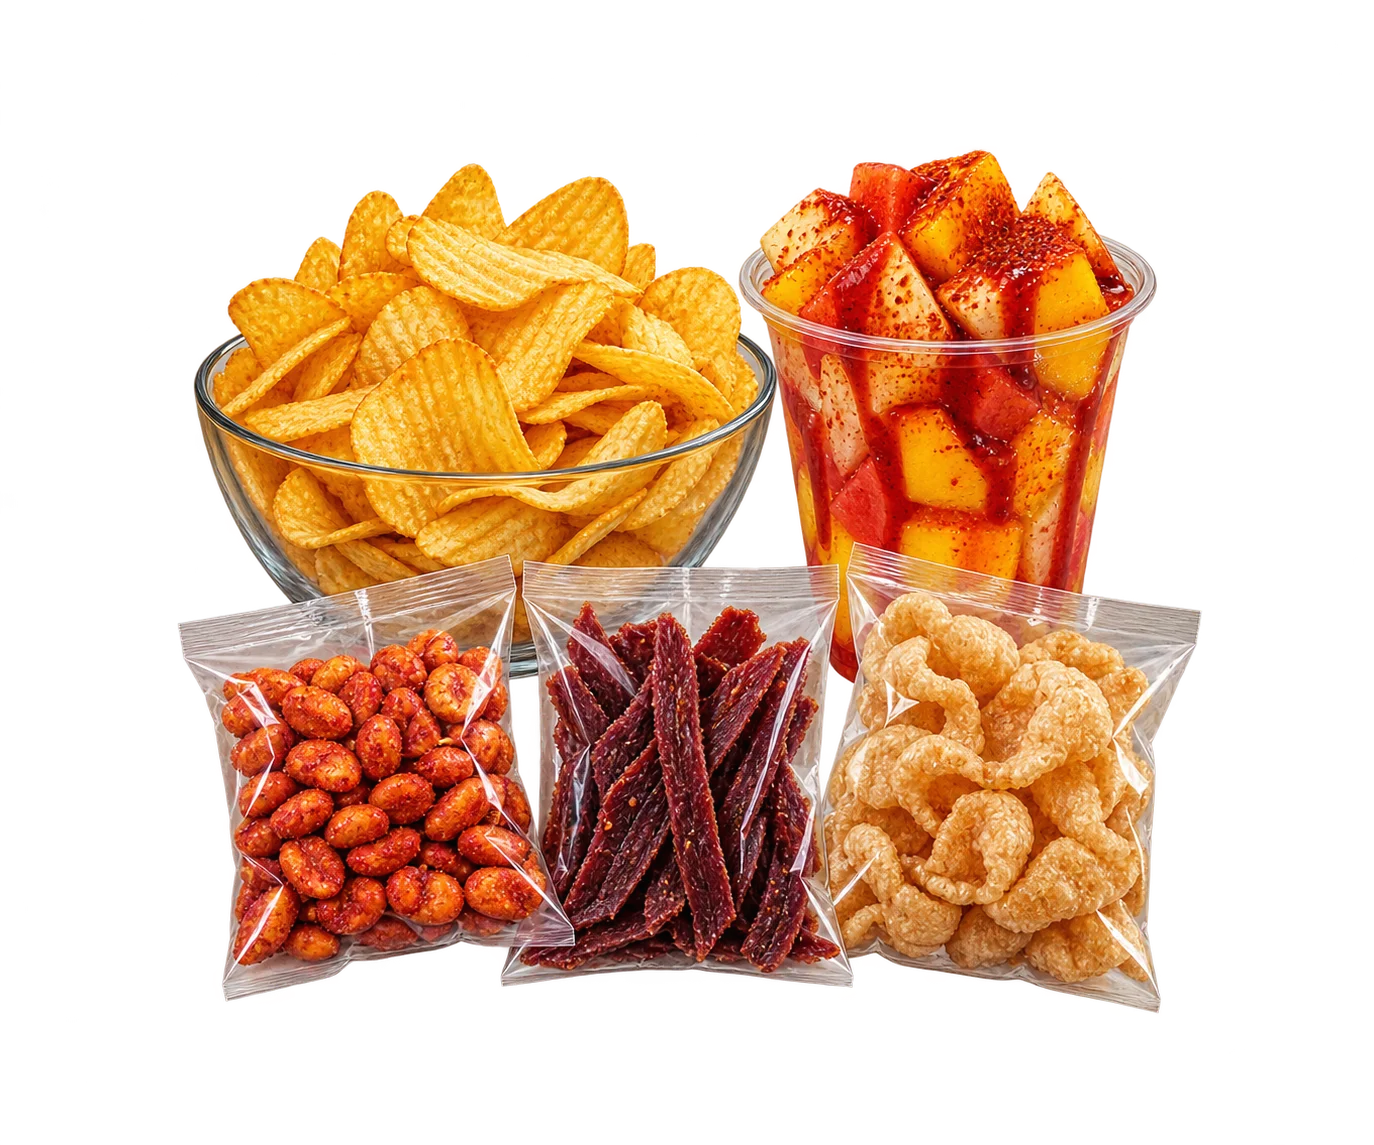
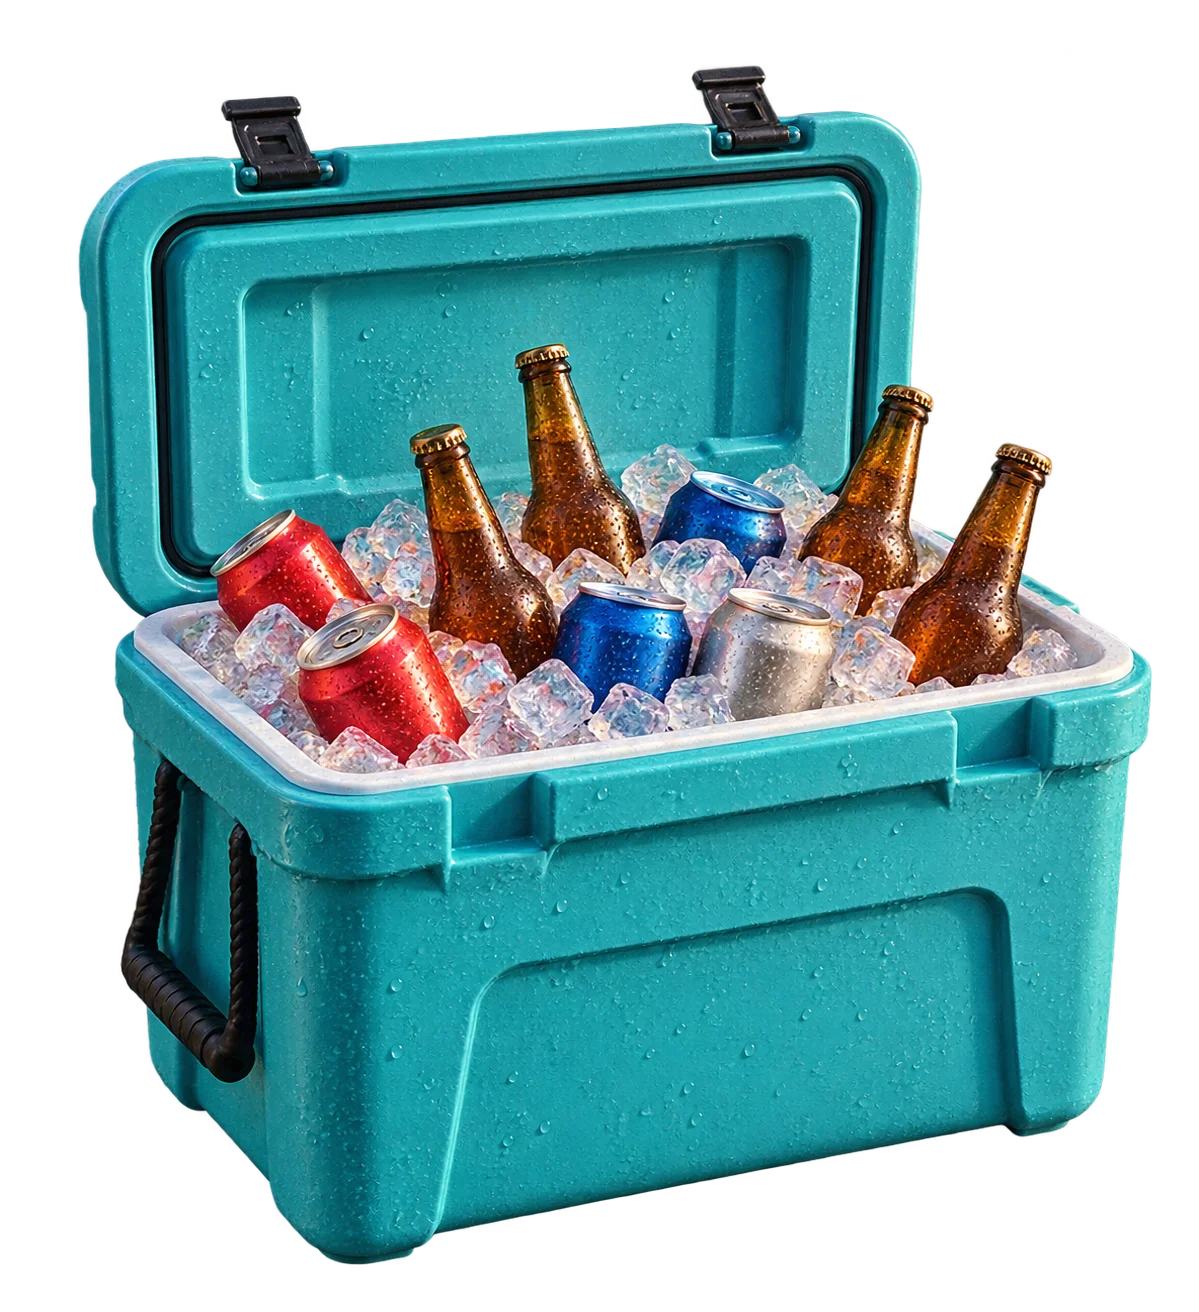
act 111

diff --git a/invitaciones/plantillas/fiestas-reuniones/quinta/index.html b/invitaciones/plantillas/fiestas-reuniones/quinta/index.html
@@ -647,6 +647,23 @@
     .cierre-contenido { color: var(--tinta); }
     .cierre-contenido h1 { color: var(--olivo); }
     .cierre-adorno { color: var(--cobre); }
+    /* Centrado vertical y reducción moderada de espacios interiores. */
+    .escena { grid-template-columns: minmax(0, 1fr); grid-template-rows: minmax(0, 1fr); padding-block: 0; }
+    .escena > .calor, .escena > .halo { position: absolute; inset: 0; pointer-events: none; }
+    .escena > .tarjeta { grid-area: 1 / 1; align-self: center; justify-self: center; }
+    #detalles .tarjeta, #plan .tarjeta, #final .tarjeta { padding-top: 29px; padding-bottom: 26px; }
+    #detalles .datos { margin-top: 16px; gap: 9px; }
+    #detalles .dato { min-height: 82px; padding: 10px; }
+    #plan .lista { margin-top: 16px; gap: 7px; }
+    #final .texto { margin-top: 15px; }
+    #final .separador { margin-block: 15px; }
+    #final .nombre { margin-top: 12px; }
+    @media(max-width:600px) {
+      #detalles .tarjeta, #plan .tarjeta, #final .tarjeta { padding-top: 24px; padding-bottom: 21px; }
+    }
+    @media(max-height:700px) {
+      #detalles .tarjeta, #plan .tarjeta, #final .tarjeta { padding-top: 21px; padding-bottom: 19px; }
+    }
   </style>
 </head>
 <body>
@@ -758,10 +775,6 @@
       <div class="tarjeta">
         <span class="etiqueta">El plan</span>
         <h2>Una tarde para disfrutar</h2>
-        <p class="texto">
-          Buena música, alberca y sobremesa hasta que se acabe la
-          conversación.
-        </p>
         <ul class="lista">
           <li>
             <span class="lista-icono">1</span><span>Llegada, bebidas y música</span>
@@ -810,10 +823,6 @@
       <div class="tarjeta">
         <span class="etiqueta">Para disfrutar mejor</span>
         <h2>Ven cómodo y con ganas</h2>
-        <p class="texto">
-          La reunión es casual. Si quieres entrar a la alberca, recuerda
-          llevar lo necesario.
-        </p>
         <ul class="lista">
           <li>
             <span class="lista-icono">◈</span><span>Ropa casual y fresca</span>
@@ -985,6 +994,17 @@
       invitacion = $("#invitacion"),
       audio = $("#audio"),
       botonMusica = $("#musica");
+    // Mismo orden de las plantillas de fiestas y reuniones.
+    escenas.forEach((escena, indice) => {
+      escena.querySelectorAll('.elemento[data-elemento]').forEach(imagen => {
+        const datos = POSICIONES[escena.id][imagen.dataset.elemento];
+        const arriba = indice === 1 || indice === 6;
+        ['web','movil'].forEach(modo => {
+          datos[modo].x = arriba ? 50 : (indice % 2 === 0 ? 86 : 14);
+          datos[modo].y = arriba ? 18 : 82;
+        });
+      });
+    });
     escenas.forEach(escena => {
       escena.querySelectorAll(".elemento[data-elemento]").forEach(imagen => {
         const datos = POSICIONES[escena.id][imagen.dataset.elemento];
@@ -998,6 +1018,102 @@
         imagen.style.setProperty("--z", datos.capa);
       });
     });
+    const limitesElementos = new WeakMap();
+    function obtenerLimitesVisibles(imagen) {
+      const guardado = limitesElementos.get(imagen);
+      if (guardado && guardado.src === imagen.currentSrc) return guardado;
+      const w = imagen.naturalWidth, h = imagen.naturalHeight;
+      let limites = { src: imagen.currentSrc, x: 0, y: 0, ancho: w, alto: h };
+      try {
+        const lienzo = document.createElement('canvas');
+        lienzo.width = w; lienzo.height = h;
+        const ctx = lienzo.getContext('2d', { willReadFrequently: true });
+        ctx.drawImage(imagen, 0, 0);
+        const pixeles = ctx.getImageData(0, 0, w, h).data;
+        let izquierda = w, derecha = -1, arriba = h, abajo = -1;
+        for (let y = 0; y < h; y++) {
+          for (let x = 0; x < w; x++) {
+            if (pixeles[(y * w + x) * 4 + 3] === 0) continue;
+            izquierda = Math.min(izquierda, x); derecha = Math.max(derecha, x);
+            arriba = Math.min(arriba, y); abajo = Math.max(abajo, y);
+          }
+        }
+        if (derecha >= izquierda && abajo >= arriba) {
+          limites = { src: imagen.currentSrc, x: izquierda, y: arriba,
+            ancho: derecha - izquierda + 1, alto: abajo - arriba + 1 };
+        }
+      } catch {
+        // Si el navegador bloquea la lectura, conservar el encaje del archivo completo.
+      }
+      limitesElementos.set(imagen, limites);
+      return limites;
+    }
+    function ajustarElementos() {
+      const marco = document.querySelector('#invitacion').getBoundingClientRect();
+      const controles = [...document.querySelectorAll('.salir, .musica')].map(el => el.getBoundingClientRect()).filter(r => r.width && r.height);
+      escenas.forEach(escena => {
+        const tarjeta = escena.querySelector('.tarjeta');
+        if (!tarjeta || !escena.clientWidth) return;
+        const w = escena.clientWidth, h = escena.clientHeight;
+        // Medidas estables: no incluyen la animación de entrada ni el desplazamiento al bajar.
+        const top = tarjeta.offsetTop, bottom = top + tarjeta.offsetHeight;
+        escena.querySelectorAll('.elemento[data-elemento]').forEach(imagen => {
+          if (!imagen.naturalWidth) return;
+          const datos = POSICIONES[escena.id][imagen.dataset.elemento];
+          const modo = matchMedia('(max-width:600px)').matches ? datos.movil : datos.web;
+          const arriba = modo.y < 50, izquierda = modo.x < 50;
+          const v = obtenerLimitesVisibles(imagen);
+          const margen = 9, separacion = 14, movimiento = 11;
+          const grados = Number(datos.giro) || 0;
+          const envolventes = [grados-3,grados,grados+3].map(g => {
+            const r = g*Math.PI/180;
+            return {ancho: Math.abs(Math.cos(r))*v.ancho+Math.abs(Math.sin(r))*v.alto,
+              alto: Math.abs(Math.sin(r))*v.ancho+Math.abs(Math.cos(r))*v.alto};
+          });
+          const anchoVisible = Math.max(...envolventes.map(e => e.ancho))*1.025;
+          const altoVisible = Math.max(...envolventes.map(e => e.alto))*1.025;
+          const capacidad = z => Math.min(Math.max(0,z.r-z.l)/anchoVisible,Math.max(0,z.b-z.t)/altoVisible);
+          let zona;
+          if (arriba) {
+            const banda = {l:margen,r:w-margen,t:margen+movimiento,b:top-separacion};
+            const central = {...banda};
+            controles.forEach(c => {
+              if ((c.left+c.right)/2-marco.left < w/2) central.l=Math.max(central.l,c.right-marco.left+separacion);
+              else central.r=Math.min(central.r,c.left-marco.left-separacion);
+              banda.t=Math.max(banda.t,c.bottom-marco.top+separacion+movimiento);
+            });
+            const mitad=Math.max(0,Math.min(w/2-central.l,central.r-w/2));
+            central.l=w/2-mitad; central.r=w/2+mitad;
+            zona=capacidad(central)>capacidad(banda)?central:banda;
+          } else {
+            zona={l:izquierda?margen:w/2+separacion,
+              r:izquierda?w/2-separacion:w-margen,t:bottom+separacion+movimiento,b:h-margen};
+          }
+          const k=capacidad(zona);
+          const angulo=grados*Math.PI/180;
+          const dx=(v.x+v.ancho/2-imagen.naturalWidth/2)*k;
+          const dy=(v.y+v.alto/2-imagen.naturalHeight/2)*k;
+          const cx=(zona.l+zona.r)/2,cy=(zona.t+zona.b)/2;
+          imagen.style.width=imagen.naturalWidth*k+'px';
+          imagen.style.height=imagen.naturalHeight*k+'px';
+          imagen.style.left=cx-(dx*Math.cos(angulo)-dy*Math.sin(angulo))+'px';
+          imagen.style.top=cy-(dx*Math.sin(angulo)+dy*Math.cos(angulo))+'px';
+        });
+      });
+    }
+    escenas.forEach(escena => {
+      escena.querySelectorAll('.elemento').forEach(imagen => {
+        imagen.loading='eager'; imagen.decoding='async';
+        imagen.addEventListener('load',ajustarElementos);
+      });
+    });
+    const observadorElementos=new ResizeObserver(ajustarElementos);
+    escenas.forEach(escena => {
+      observadorElementos.observe(escena);
+      observadorElementos.observe(escena.querySelector('.tarjeta'));
+    });
+    document.fonts.ready.then(ajustarElementos);
+    ajustarElementos();
     $(".salir").href = CONFIG.salida;
     let indiceActivo = 0,
       temporizadorAlto;
